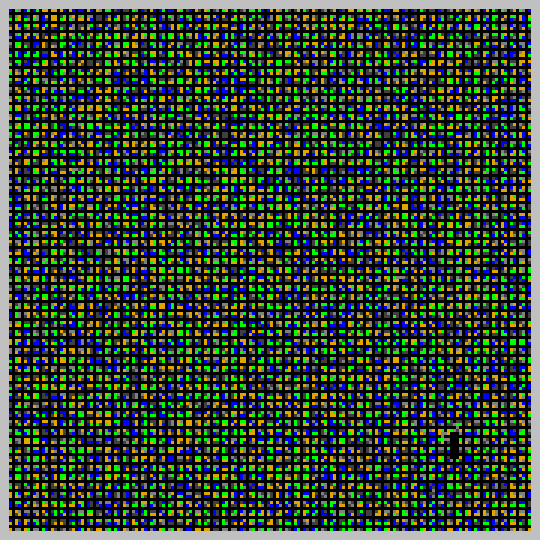
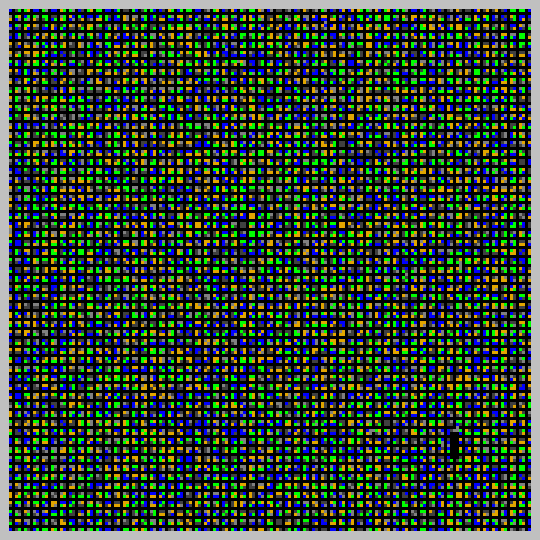
Sprites renderen in 1 keer (2)

diff --git a/IB2.py b/IB2.py
@@ -448,39 +448,30 @@ def render_sprites(renderer, sprites, player, d):
         #renderer.copy(sprite.image, dstrect=(screen_x, screen_y, sprite_size_breedte, sprite_size_hoogte))
         geschikte_i_waarden = []
 
+        tuplelijst = []
         for i in range(sprite_size_breedte):
             kolom = i + screen_x
             if kolom >= BREEDTE:
+                break
+            if kolom < 0:
                 continue
             if not d[kolom] <= sprite.afstand:
-                # Voeg de geschikte i-waarden toe aan de lijst
-                geschikte_i_waarden.append(i)
-        if geschikte_i_waarden == []:
-            continue
-        # Render de sprites voor de geschikte i-waarden in één keer
-        print("geschikt :" + str(geschikte_i_waarden[len(geschikte_i_waarden)-1]))
-        print("breedte :" + str(sprite_size_breedte))
-        if geschikte_i_waarden[0]==0:
-            renderer.copy(image,   srcrect=(
-                           geschikte_i_waarden[0]/ sprite_size_breedte * spriteBreedte, 0, len(geschikte_i_waarden) * sprite.afstand, sprite_size_hoogte * sprite.afstand),
-                    dstrect=(
-                        screen_x , screen_y, len(geschikte_i_waarden),
-                        sprite_size_hoogte))
+                if tuplelijst == []:
+                    tuplelijst.append([kolom, 1, i])
+                elif kolom == tuplelijst[-1][0] + tuplelijst[-1][1]:
+                    tuplelijst[-1][1] += 1
+                else:
+                    tuplelijst.append([kolom, 1, i])
 
-
-        elif (geschikte_i_waarden[len(geschikte_i_waarden)-1]) == sprite_size_breedte-1:
-
+        for kolom, breedte, initieel in tuplelijst:
+            if breedte + kolom != BREEDTE:
+                breedte2 = breedte
+            else:
+                breedte2 = sprite_size_breedte
             renderer.copy(image, srcrect=(
-            geschikte_i_waarden[0]/ sprite_size_breedte * spriteBreedte, 0, len(geschikte_i_waarden) * sprite.afstand, sprite_size_hoogte * sprite.afstand),
-                          dstrect=(screen_x+sprite_size_breedte-len(geschikte_i_waarden), screen_y, len(geschikte_i_waarden), sprite_size_hoogte))
-
-        else:
-            print(geschikte_i_waarden[0])
-            renderer.copy(image,   srcrect=(
-                           geschikte_i_waarden[0]/ sprite_size_breedte * spriteBreedte, 0, len(geschikte_i_waarden) * sprite.afstand, sprite_size_hoogte * sprite.afstand),
-                          dstrect=(
-                          screen_x  + geschikte_i_waarden[0], screen_y, len(geschikte_i_waarden),
-                          sprite_size_hoogte))
+                initieel / sprite_size_breedte * spriteBreedte, 0, breedte * sprite.afstand,
+                sprite_size_hoogte * sprite.afstand),
+                          dstrect=(kolom, screen_y, breedte2, sprite_size_hoogte))
 
 
 def kies_sprite_afbeelding(hoek_verschil,sprite,fout):
@@ -816,8 +807,8 @@ def main():
         autos.append(image)
 
     sprites.append(Sprite(tree, bomen, sprite_map_png, 50.5 * 9, 50 * 9, HOOGTE))
-    #sprites.append(Sprite(tree, bomen, sprite_map_png, 49.5 * 9, 50 * 9, HOOGTE))
-    #sprites.append(Sprite(tree, [], sprite_map_png, (49 * 9), (49.5 * 9), HOOGTE))
+    sprites.append(Sprite(tree, bomen, sprite_map_png, 50.5 * 9, 48.2 * 9, HOOGTE))
+    sprites.append(Sprite(tree, [], sprite_map_png, (49 * 9), (49.5 * 9), HOOGTE))
     draai_sprites(sprites[0],138)
 
     # Eerste Auto aanmaken
@@ -1009,7 +1000,7 @@ def main():
             if sprites == []:
                 0
             else:
-                #draai_sprites(sprites[0], 1)
+                 #draai_sprites(sprites[1], 1)
                  draai_sprites(speler.car,1)
             print(str(speler.p_x)+" "+str(speler.p_y))
             # Toon de fps
